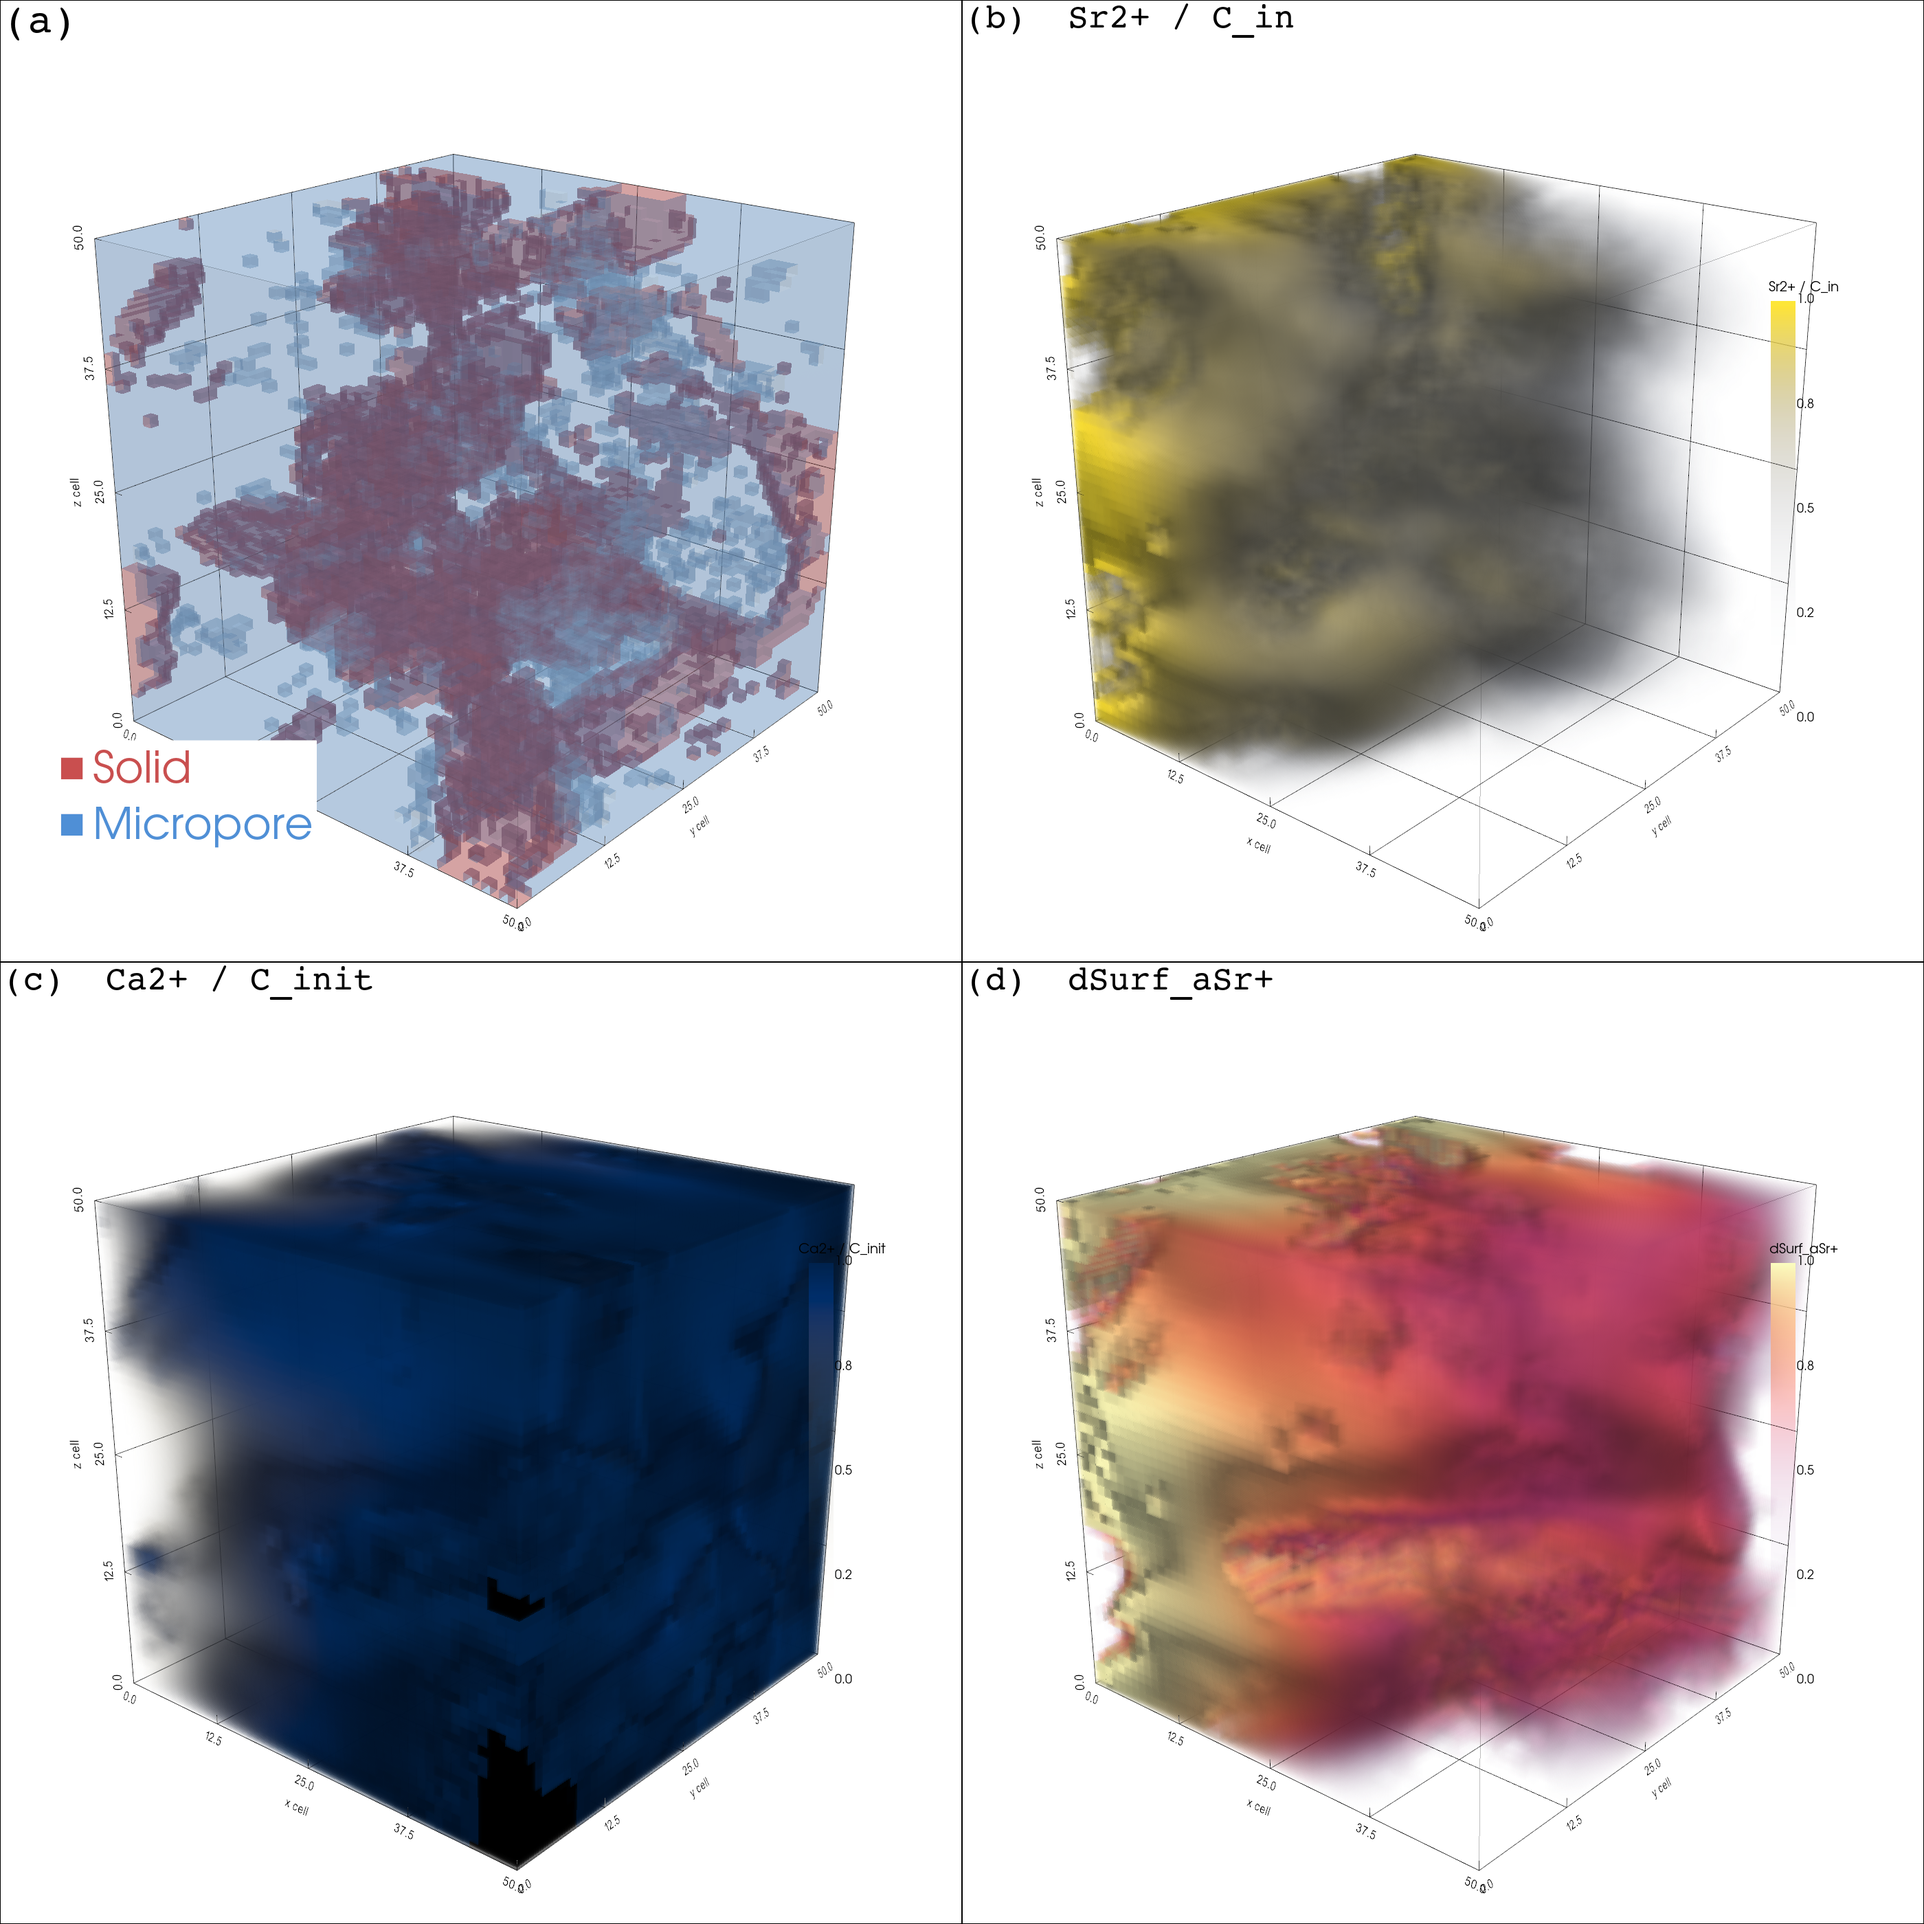
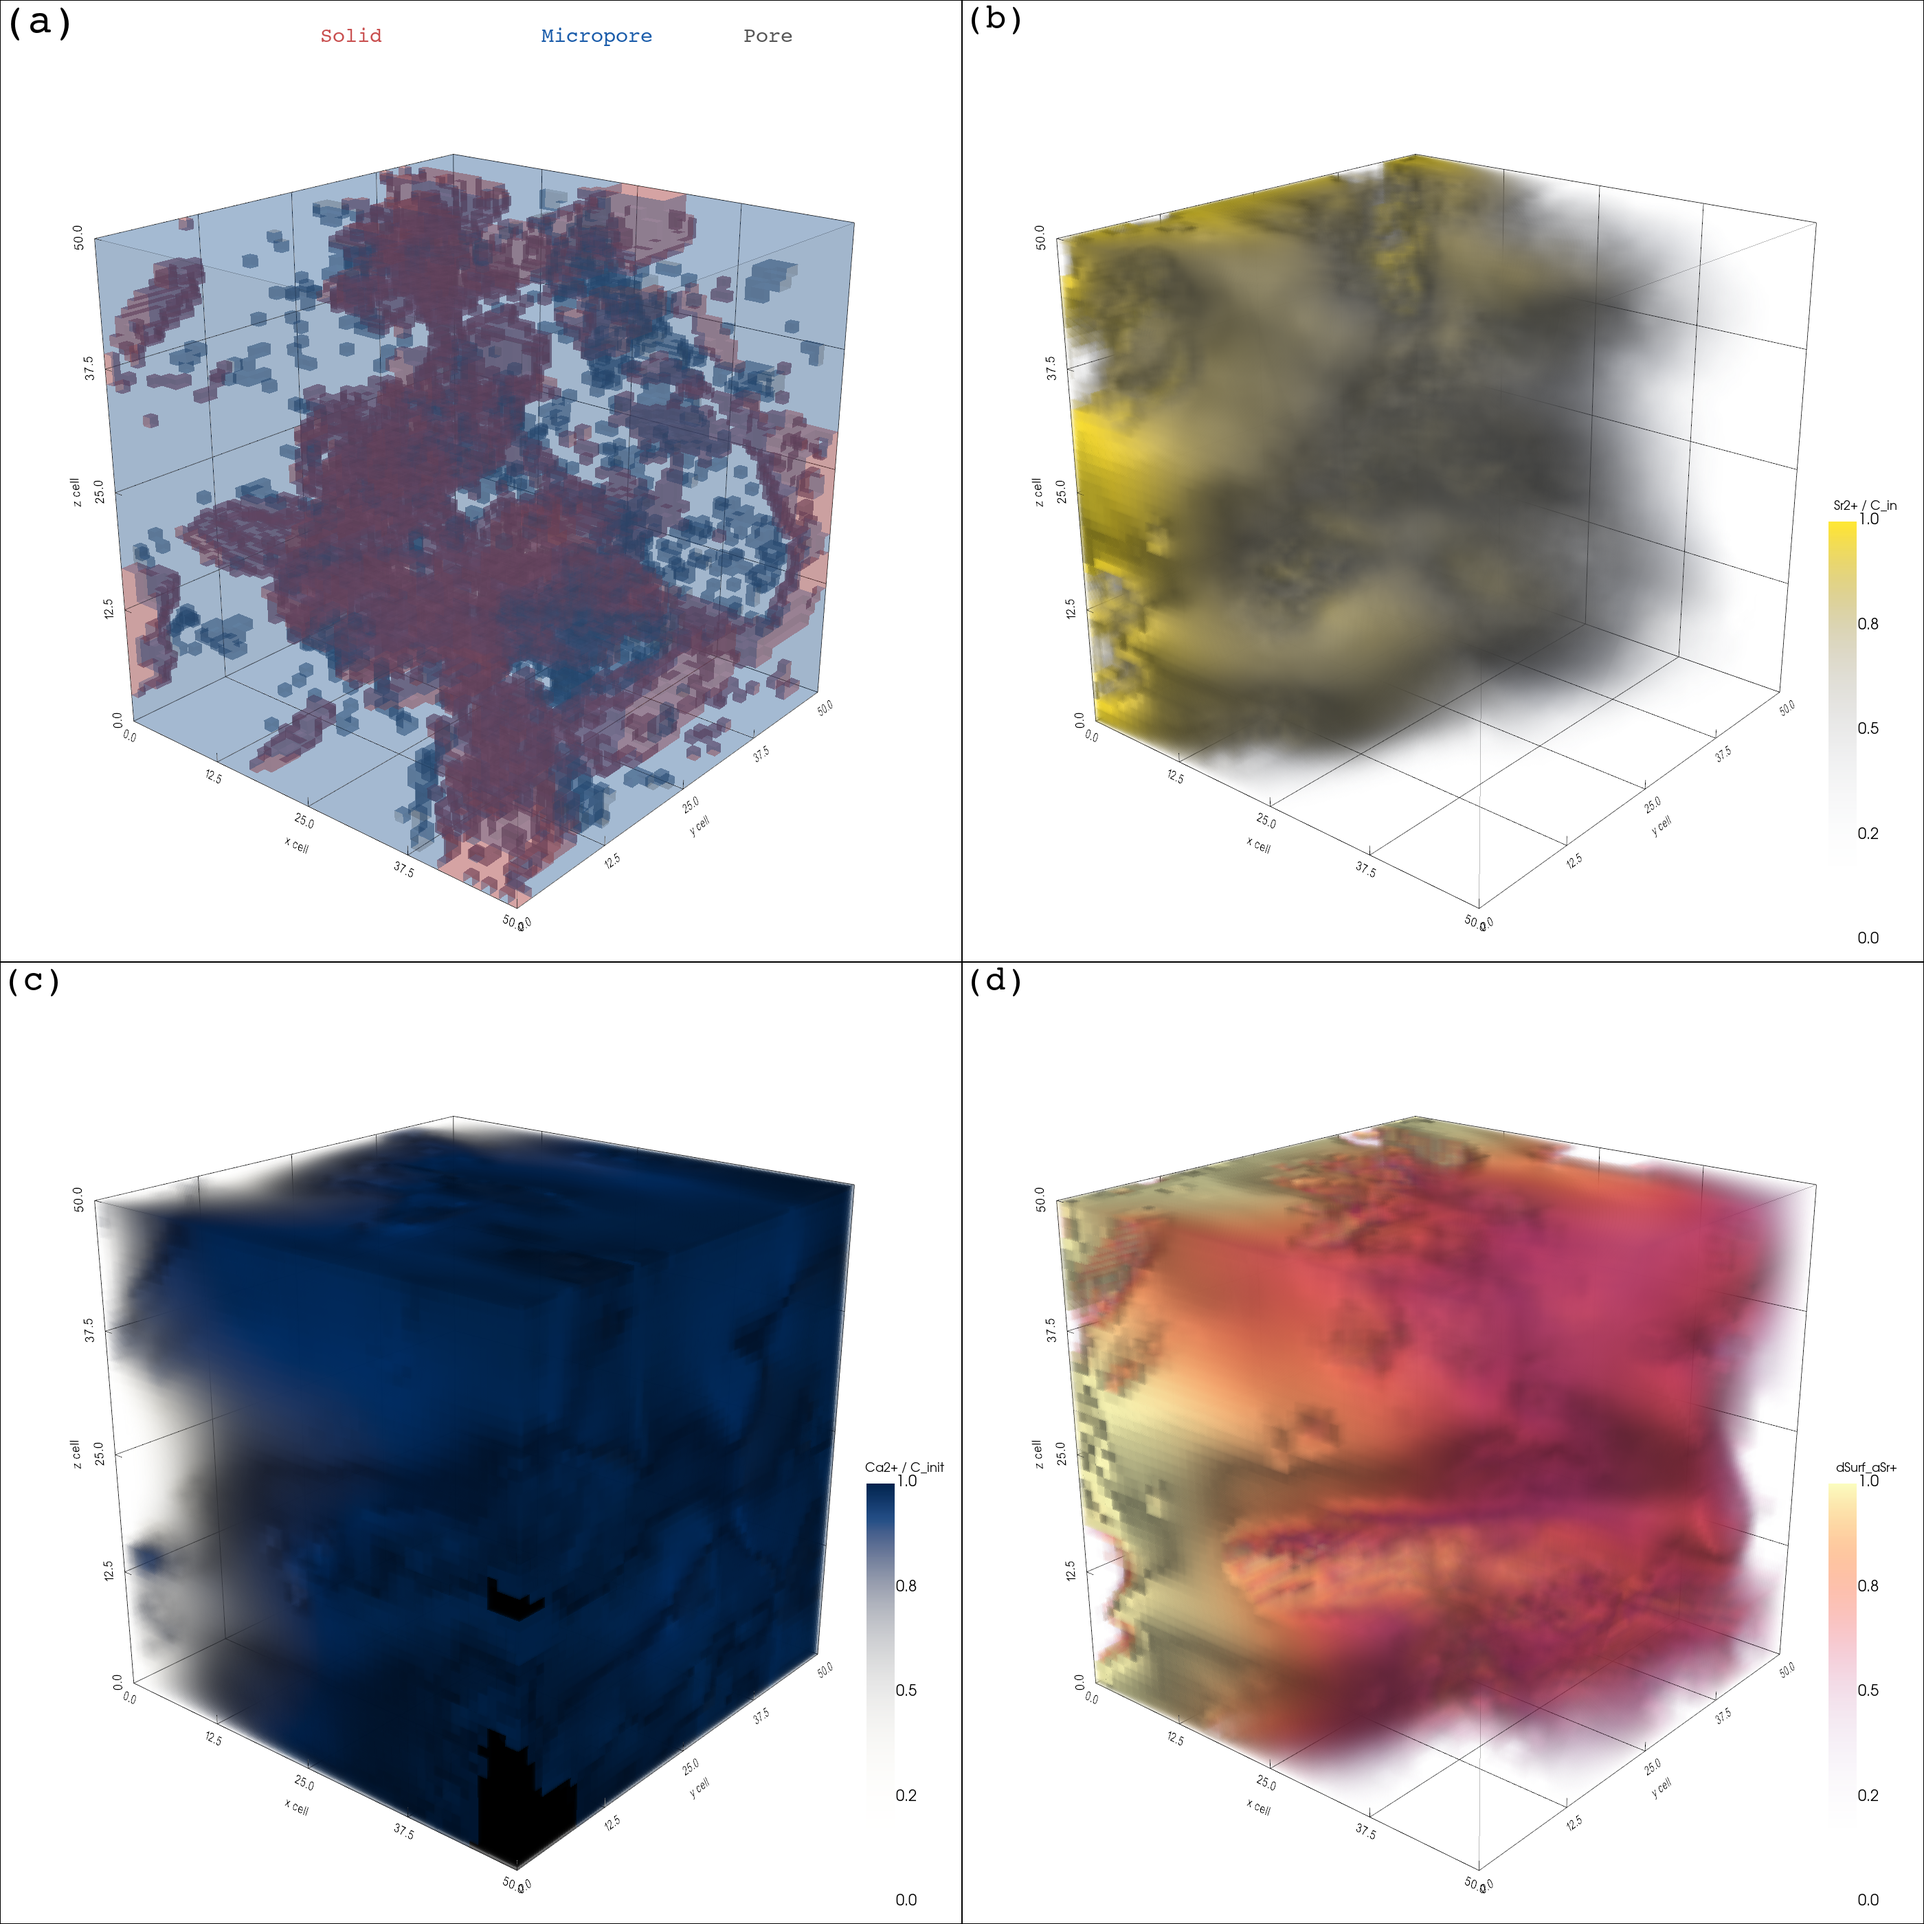
fix: geometry legend to top strip, all 3 phases visible, no geometry overlap
- Move legend (Solid/Micropore/Pore) to white strip above 3D bounding box
  using viewport=True at y=0.95 so items are above the geometry mesh
- Darken Micropore (#1a5caa) and Pore (#555555) for better contrast
- Add white semi-transparent text background to ensure readability
- Add 4th panel (Ca2+ log-scale) to fig04 Estaillades in 2x2 layout
- Species names on colorbars only; panel labels are letter-only (a)-(d)
- Larger colorbar text (title_font_size=18, label_font_size=22)
- Scalar bars auto-positioned with unique titles to avoid overlap

diff --git a/figures/scripts/generate_3d_volume_render_pyvista.py b/figures/scripts/generate_3d_volume_render_pyvista.py
@@ -158,7 +158,7 @@ def add_geometry_panel(
     nx: int,
     ny: int,
     nz: int,
-    panel_label: str = "(a)",
+    panel_label: str = "a",
 ) -> None:
     plotter.subplot(*subplot)
     plotter.set_background("white")
@@ -168,8 +168,8 @@ def add_geometry_panel(
 
     phase_defs = [
         (0, "Solid", "#c94f4f", 0.28),
-        (1, "Micropore", "#4f8fd6", 0.22),
-        (2, "Pore", "#ffffff", 0.14),
+        (1, "Micropore", "#1a5caa", 0.22),
+        (2, "Pore", "#555555", 0.14),
     ]
 
     for phase_value, _, color, opacity in phase_defs:
@@ -198,14 +198,23 @@ def add_geometry_panel(
         opacity=0.35,
     )
     plotter.add_text(panel_label, position="upper_left", font_size=24, color="black", font="courier")
-    plotter.add_legend(
-        labels=[(name, color) for _, name, color, _ in phase_defs],
-        face="rectangle",
-        bcolor="white",
-        border=True,
-        size=(0.28, 0.18),
-        loc="lower left",
-    )
+    # Legend: placed in upper-right of the geometry subplot viewport.
+    # For 1×3 window (2520×1000): panel (a) is cols 0..839, so x=500, y tops at ~920px.
+    # For 2×2 window (2800×2800): panel (a) is cols 0..1399, rows 1400..2799, so x=900, y~2700.
+    # We use plotter.window_size to pick appropriate coords.
+    # Place legend in white strip above the 3D bounding box (viewport y > 0.90)
+    legend_positions = [(0.32, 0.95), (0.55, 0.95), (0.76, 0.95)]
+    for i, (_, name, color, _) in enumerate(phase_defs):
+        actor = plotter.add_text(
+            f"\u25a0 {name}",
+            position=legend_positions[i],
+            viewport=True,
+            font_size=15,
+            color=color,
+            font="courier",
+        )
+        actor.GetTextProperty().SetBackgroundColor(1.0, 1.0, 1.0)
+        actor.GetTextProperty().SetBackgroundOpacity(0.0)
     plotter.show_bounds(
         grid="back",
         location="outer",
@@ -236,7 +245,8 @@ def add_volume_panel(
     nx: int,
     ny: int,
     nz: int,
-    panel_label: str = "",
+    panel_label: str = "b",
+    grid_shape: tuple[int, int] = (1, 3),
 ) -> None:
     plotter.subplot(*subplot)
     plotter.set_background("white")
@@ -254,11 +264,10 @@ def add_volume_panel(
             "title": scalar_bar_title,
             "vertical": True,
             "fmt": "%.1f",
-            "title_font_size": 20,
-            "label_font_size": 18,
-            "width": 0.07,
-            "position_x": 0.84,
-            "position_y": 0.25,
+            "title_font_size": 18,
+            "label_font_size": 22,
+            "width": 0.08,
+            "height": 0.45,
         },
     )
     plotter.add_mesh(
@@ -267,7 +276,7 @@ def add_volume_panel(
         line_width=1.0,
         opacity=0.35,
     )
-    plotter.add_text(f"{panel_label}  {title}", position="upper_left", font_size=20, color="black", font="courier")
+    plotter.add_text(panel_label, position="upper_left", font_size=20, color="black", font="courier")
     plotter.show_bounds(
         grid="back",
         location="outer",
@@ -364,7 +373,7 @@ def main() -> None:
 
     use_2x2 = second_aqueous is not None
     shape = (2, 2) if use_2x2 else (1, 3)
-    win_size = (2800, 2800) if use_2x2 else (2520, 820)
+    win_size = (2800, 2800) if use_2x2 else (2520, 1000)
     plotter = pv.Plotter(shape=shape, off_screen=True, window_size=win_size)
 
     add_geometry_panel(
@@ -387,7 +396,7 @@ def main() -> None:
         dataset=aqueous_img,
         subplot=(0, 1),
         title=aq_title,
-        scalar_bar_title=aq_bar,
+        scalar_bar_title=aq_title,
         cmap="cividis",
         nx=nx,
         ny=ny,
@@ -405,13 +414,12 @@ def main() -> None:
         )
         second_img = build_image_data(second_scaled)
         aq2_title = args.second_aqueous_title if args.second_aqueous_title else f"{args.second_aqueous_field} / C_in"
-        aq2_bar = args.second_aqueous_title if args.second_aqueous_title else f"Norm. {args.second_aqueous_field}"
         add_volume_panel(
             plotter=plotter,
             dataset=second_img,
             subplot=(1, 0),
             title=aq2_title,
-            scalar_bar_title=aq2_bar,
+            scalar_bar_title=aq2_title,
             cmap="cividis_r",
             nx=nx,
             ny=ny,
@@ -423,7 +431,7 @@ def main() -> None:
             dataset=surface_img,
             subplot=(1, 1),
             title=surf_title,
-            scalar_bar_title=surf_bar,
+            scalar_bar_title=surf_title,
             cmap="magma",
             nx=nx,
             ny=ny,
@@ -436,7 +444,7 @@ def main() -> None:
             dataset=surface_img,
             subplot=(0, 2),
             title=surf_title,
-            scalar_bar_title=surf_bar,
+            scalar_bar_title=surf_title,
             cmap="magma",
             nx=nx,
             ny=ny,
